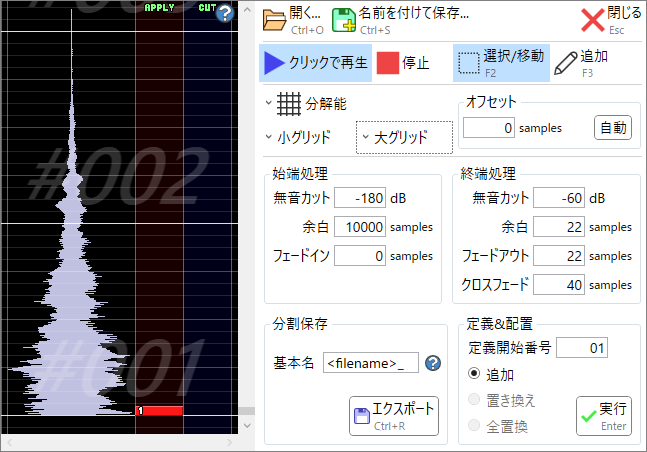
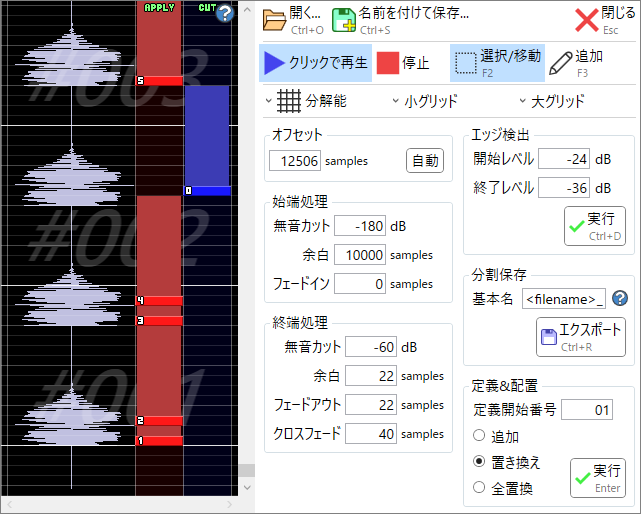
v0.7.19

diff --git a/docs/bms_slice.html b/docs/bms_slice.html
@@ -45,27 +45,28 @@
                 <h2>説明</h2>
                 要素をクリックすると説明が表示されます。
                 <div class="image-map" src="img/bms_slice.png" maps="
-                      7,  1,128,433, bms/slice_lane_wave.html, center;
-                    135,  1, 48,433, bms/slice_lane_apply.html, center;
-                    183,  1, 48,433, bms/slice_lane_cut.html, center;
+                      7,  1,128,495, bms/slice_lane_wave.html, center;
+                    135,  1, 48,495, bms/slice_lane_apply.html, center;
+                    183,  1, 48,495, bms/slice_lane_cut.html, center;
                     259,  1, 69, 38, bms/slice_open.html;
                     328,  1,145, 38, bms/slice_save.html;
-                    576,  1, 69, 38, bms/slice_close.html;
+                    571,  1, 69, 38, bms/slice_close.html;
                     259, 44,113, 38, bms/slice_play.html;
-                    372, 44, 80, 38, bms/stop.html;
-                    452, 44, 97, 38, bms/slice_edit_move.html;
-                    549, 44, 96, 38, bms/slice_edit_add.html;
-                    259, 87,193, 34, bms/grid_quantize.html;
-                    259,121, 97, 33, bms/grid_small.html;
-                    356,121, 96, 33, bms/grid_large.html;
-                    452, 87,193, 67, bms/slice_offset.html;
-                    259,159,188,150, wave/slice_leftProcess.html;
-                    447,159,198,150, wave/slice_rightProcess.html;
-                    266,348,179, 29, bms/slice_baseName.html;
-                    349,396, 90, 40, bms/slice_export.html;
-                    461,333,177, 29, bms/slice_defStart.html;
-                    461,361,104, 81, bms/slice_replace.html;
-                    576,396, 56, 40, bms/slice_execute.html;
+                    372, 44, 78, 38, bms/stop.html;
+                    450, 44, 95, 38, bms/slice_edit_move.html;
+                    545, 44, 95, 38, bms/slice_edit_add.html;
+                    259, 87,127, 27, bms/grid_quantize.html;
+                    386, 87,127, 27, bms/grid_small.html;
+                    513, 87,127, 27, bms/grid_large.html;
+                    259,120,199, 67, bms/slice_offset.html;
+                    259,187,199,121, wave/slice_leftProcess.html;
+                    259,308,199,150, wave/slice_rightProcess.html;
+                    458,120,182,140, bms/slice_detect.html;
+                    464,284,170, 29, bms/slice_baseName.html;
+                    536,317, 90, 40, bms/slice_export.html;
+                    464,395,170, 29, bms/slice_defStart.html;
+                    464,425,104, 81, bms/slice_replace.html;
+                    570,458, 56, 40, bms/slice_execute.html;
                     ">
                 </div>
                 <ul>

diff --git a/docs/bms_merge.html b/docs/bms_merge.html
@@ -1,0 +1,47 @@
+<!DOCTYPE html>
+<html>
+    <head>
+        <meta content="text/html" charset="UTF-8" http-equiv="content-type">
+        <title>BmsMaker3</title>
+        <link rel="shortcut icon" href="favicon.ico">
+        <link rel="stylesheet" type="text/css" href="style.css">
+    </head>
+    <body>
+        <div class="content">
+            <div class="stack">
+                <h1>統合</h1>
+                <p>
+                    別のBMSファイルを読み込んで、編集中のBMSデータに定義リストとノーツ配置を追加します。
+                </p>
+                <ul>
+                    <li>
+                        ヘッダー、小節超定義、ランダム分岐はコピーされません。
+                    </li>
+                    <li>
+                        コピー元とコピー先で定義番号が衝突する場合、それを避けてコピーすることもできます。
+                    </li>
+                    <li>
+                        <a href="midi_bmsExport.html">Midiモード/BMS出力</a>の「既存に追加」とは異なり、<b style="color: #f44;">レーンの衝突は関知しません</b>。
+                        <ul>
+                            <li>
+                                統合後は該当ノートが選択された状態になるため、必要に応じて横にずらしてください。
+                            </li>
+                        </ul>
+                    </li>
+                </ul>
+            </div>
+            <div class="stack">
+                <h2>説明</h2>
+                要素をクリックすると説明が表示されます。
+                <div class="image-map" src="img/bms_merge.png" maps="
+                      1, 27,324, 57, bms/merge_target.html;
+                      8, 84,138, 29, bms/merge_avoid.html;
+                    168, 84,154, 29, bms/merge_defStart.html;
+                    175,136, 56, 40, bms/merge_execute.html;
+                    239,136, 82, 40, common/cancel_restore.html;">
+                </div>
+            </div>
+        </div>
+        <script type="text/javascript" src="script.js"></script>
+    </body>
+</html>

diff --git a/docs/history.html b/docs/history.html
@@ -10,6 +10,37 @@
         <div class="content">
             <ul>
                 <li>
+                    <details id="0_7_19">
+                        <summary class="a-like">Version 0.7.19 (2025/08/02)</summary>
+                        <ul>
+                            <li>
+                                機能追加
+                                <ul>
+                                    <li>
+                                        <a href="bms.html">BMSモード</a>に<a href="bms_merge.html">統合</a>機能を追加しました。
+                                        <ul>
+                                            <li>
+                                                別のBMSファイルを読み込んで、編集中のBMSデータに定義リストとノーツ配置を追加します。
+                                            </li>
+                                            <li>
+                                                <a href="midi_bmsExport.html">Midiモード/BMS出力</a>の「既存に追加」に似た、もう少し詳細な指定が可能な機能です。
+                                            </li>
+                                        </ul>
+                                    </li>
+                                    <li>
+                                        <a href="bms_slice.html">BMSモード/スライス</a>に「エッジ検出」を追加しました。
+                                        <ul>
+                                            <li>
+                                                音声の開始を検出し、その位置に合わせてマーカーを配置します。
+                                            </li>
+                                        </ul>
+                                    </li>
+                                </ul>
+                            </li>
+                        </ul>
+                        <br>
+                    </details>
+                <li>
                     <details id="0_7_18">
                         <summary class="a-like">Version 0.7.18 (2025/07/26)</summary>
                         <ul>

diff --git a/docs/bms/slice_detect.html b/docs/bms/slice_detect.html
@@ -1,0 +1,30 @@
+<h3>エッジ検出</h3>
+<span class="script">Ctrl+D</span>
+<ul>
+    <li>
+        音声の開始位置を検出し、その位置にマーカーを配置します。
+    </li>
+    <li>
+        配置のプロセスは以下の通りです。
+        <ol>
+            <li>
+                音量が<b>開始レベル</b>を上回るまで進める
+            </li>
+            <li>
+                その位置にマーカーを配置
+            </li>
+            <li>
+                音量が<b>終了レベル</b>を下回るまで進める
+            </li>
+            <li>
+                1.に戻る
+            </li>
+        </ol>
+    </li>
+    <li>
+        マーカーの配置位置は<b>分解能</b>によるグリッドに従います。
+    </li>
+    <li>
+        試験的な機能であり、低品質なので、あまり信頼しないでください。
+    </li>
+</ul>

diff --git a/docs/bms.html b/docs/bms.html
@@ -105,8 +105,9 @@
                          71, 22, 83, 45, common/file_open.html;
                         154, 22, 96, 45, common/file_save.html;
                         250, 22,137, 45, common/file_saveAs.html;
-                        392, 22,112, 45, bms/preview_setting.html;
-                        504, 22, 96, 45, bms/theme_setting.html;
+                        392, 22, 70, 45, bms/func_merge.html;
+                        467, 22,112, 45, bms/preview_setting.html;
+                        579, 22, 96, 45, bms/theme_setting.html;
                     "></div>
                     <div class="image-map" src="img/window_bms_tab_edit.png" maps="
                           1,  0, 25, 21, common/undo.html;

diff --git a/docs/bms/merge_target.html b/docs/bms/merge_target.html
@@ -1,0 +1,17 @@
+<h3>対象</h3>
+<ul>
+    <li>
+        コピーの対象とするノートの種類を選択します。
+    </li>
+    <li>
+        一つもチェックしなかった場合は<b>全てのノート</b>がコピーされます。
+    </li>
+    <li>
+        「メタノート」をチェックしなかった場合、<br>
+        メタノート用の定義リスト(<span class="script">#BMP</span>など)はコピーされません。
+    </li>
+    <li>
+        「音声ノート」をチェックしなかった場合、<br>
+        <span class="script">#WAV</span>定義リストはコピーされません。
+    </li>
+</ul>

diff --git a/docs/bms/merge_defStart.html b/docs/bms/merge_defStart.html
@@ -1,0 +1,15 @@
+<h3>定義開始番号</h3>
+<ul>
+    <li>
+        定義が衝突する場合に、未使用の定義番号を検索する開始位置を指定します。
+    </li>
+    <li>
+        「定義の衝突を回避」が有効な場合のみ使われます。
+    </li>
+    <li>
+        コピー先の定義が未使用の場合、<b>この番号に関わらず</b>コピー元の定義番号がそのまま使われます。
+    </li>
+    <li>
+        コピー先でノートから参照されている番号は、<b>空白であっても使用済み扱いになります</b>。
+    </li>
+</ul>

diff --git a/docs/index.html b/docs/index.html
@@ -11,7 +11,7 @@
             <div class="stack">
                 <a href="https://github.com/Kuroki-Narumi/BmsMaker3-Manual/releases" target="_blank">
                     <img src="img/logo.png" style="max-width: 100%;"/><br>
-                    Version 0.7.18<br>
+                    Version 0.7.19<br>
                 </a>
                 オールインワン型BMS制作補助ツール<br>
             </div>

diff --git a/docs/bms/func_merge.html b/docs/bms/func_merge.html
@@ -1,0 +1,10 @@
+<h3><img src="img/icons/Merge.png" class="icon">統合</h3>
+<span class="script">Ctrl+M</span>
+<ul>
+    <li>
+        BMSファイルを選択して<a href="bms_merge.html">統合ウィンドウ</a>を開きます。
+    </li>
+    <li>
+        「ファイルを開く」ダイアログをキャンセルした場合、ウィンドウは開きません。
+    </li>
+</ul>

diff --git a/docs/bms/merge_avoid.html b/docs/bms/merge_avoid.html
@@ -1,0 +1,10 @@
+<h3>定義の衝突を回避</h3>
+<ul>
+    <li>
+        チェックした場合、コピー元の定義番号を、<br>
+        コピー先が使用済みの番号と衝突しないように変更します。
+    </li>
+    <li>
+        コピー先と同じ内容の定義がある場合は、その番号が優先的に使われます。
+    </li>
+</ul>

diff --git a/docs/bms/merge_execute.html b/docs/bms/merge_execute.html
@@ -1,0 +1,7 @@
+<h3><img src="img/icons/Check_Green.png" class="icon"/>処理の実行</h3>
+<span class="script">Enter</span>
+<ul>
+    <li>
+        このウィンドウを閉じ、統合を実行します。
+    </li>
+</ul>
